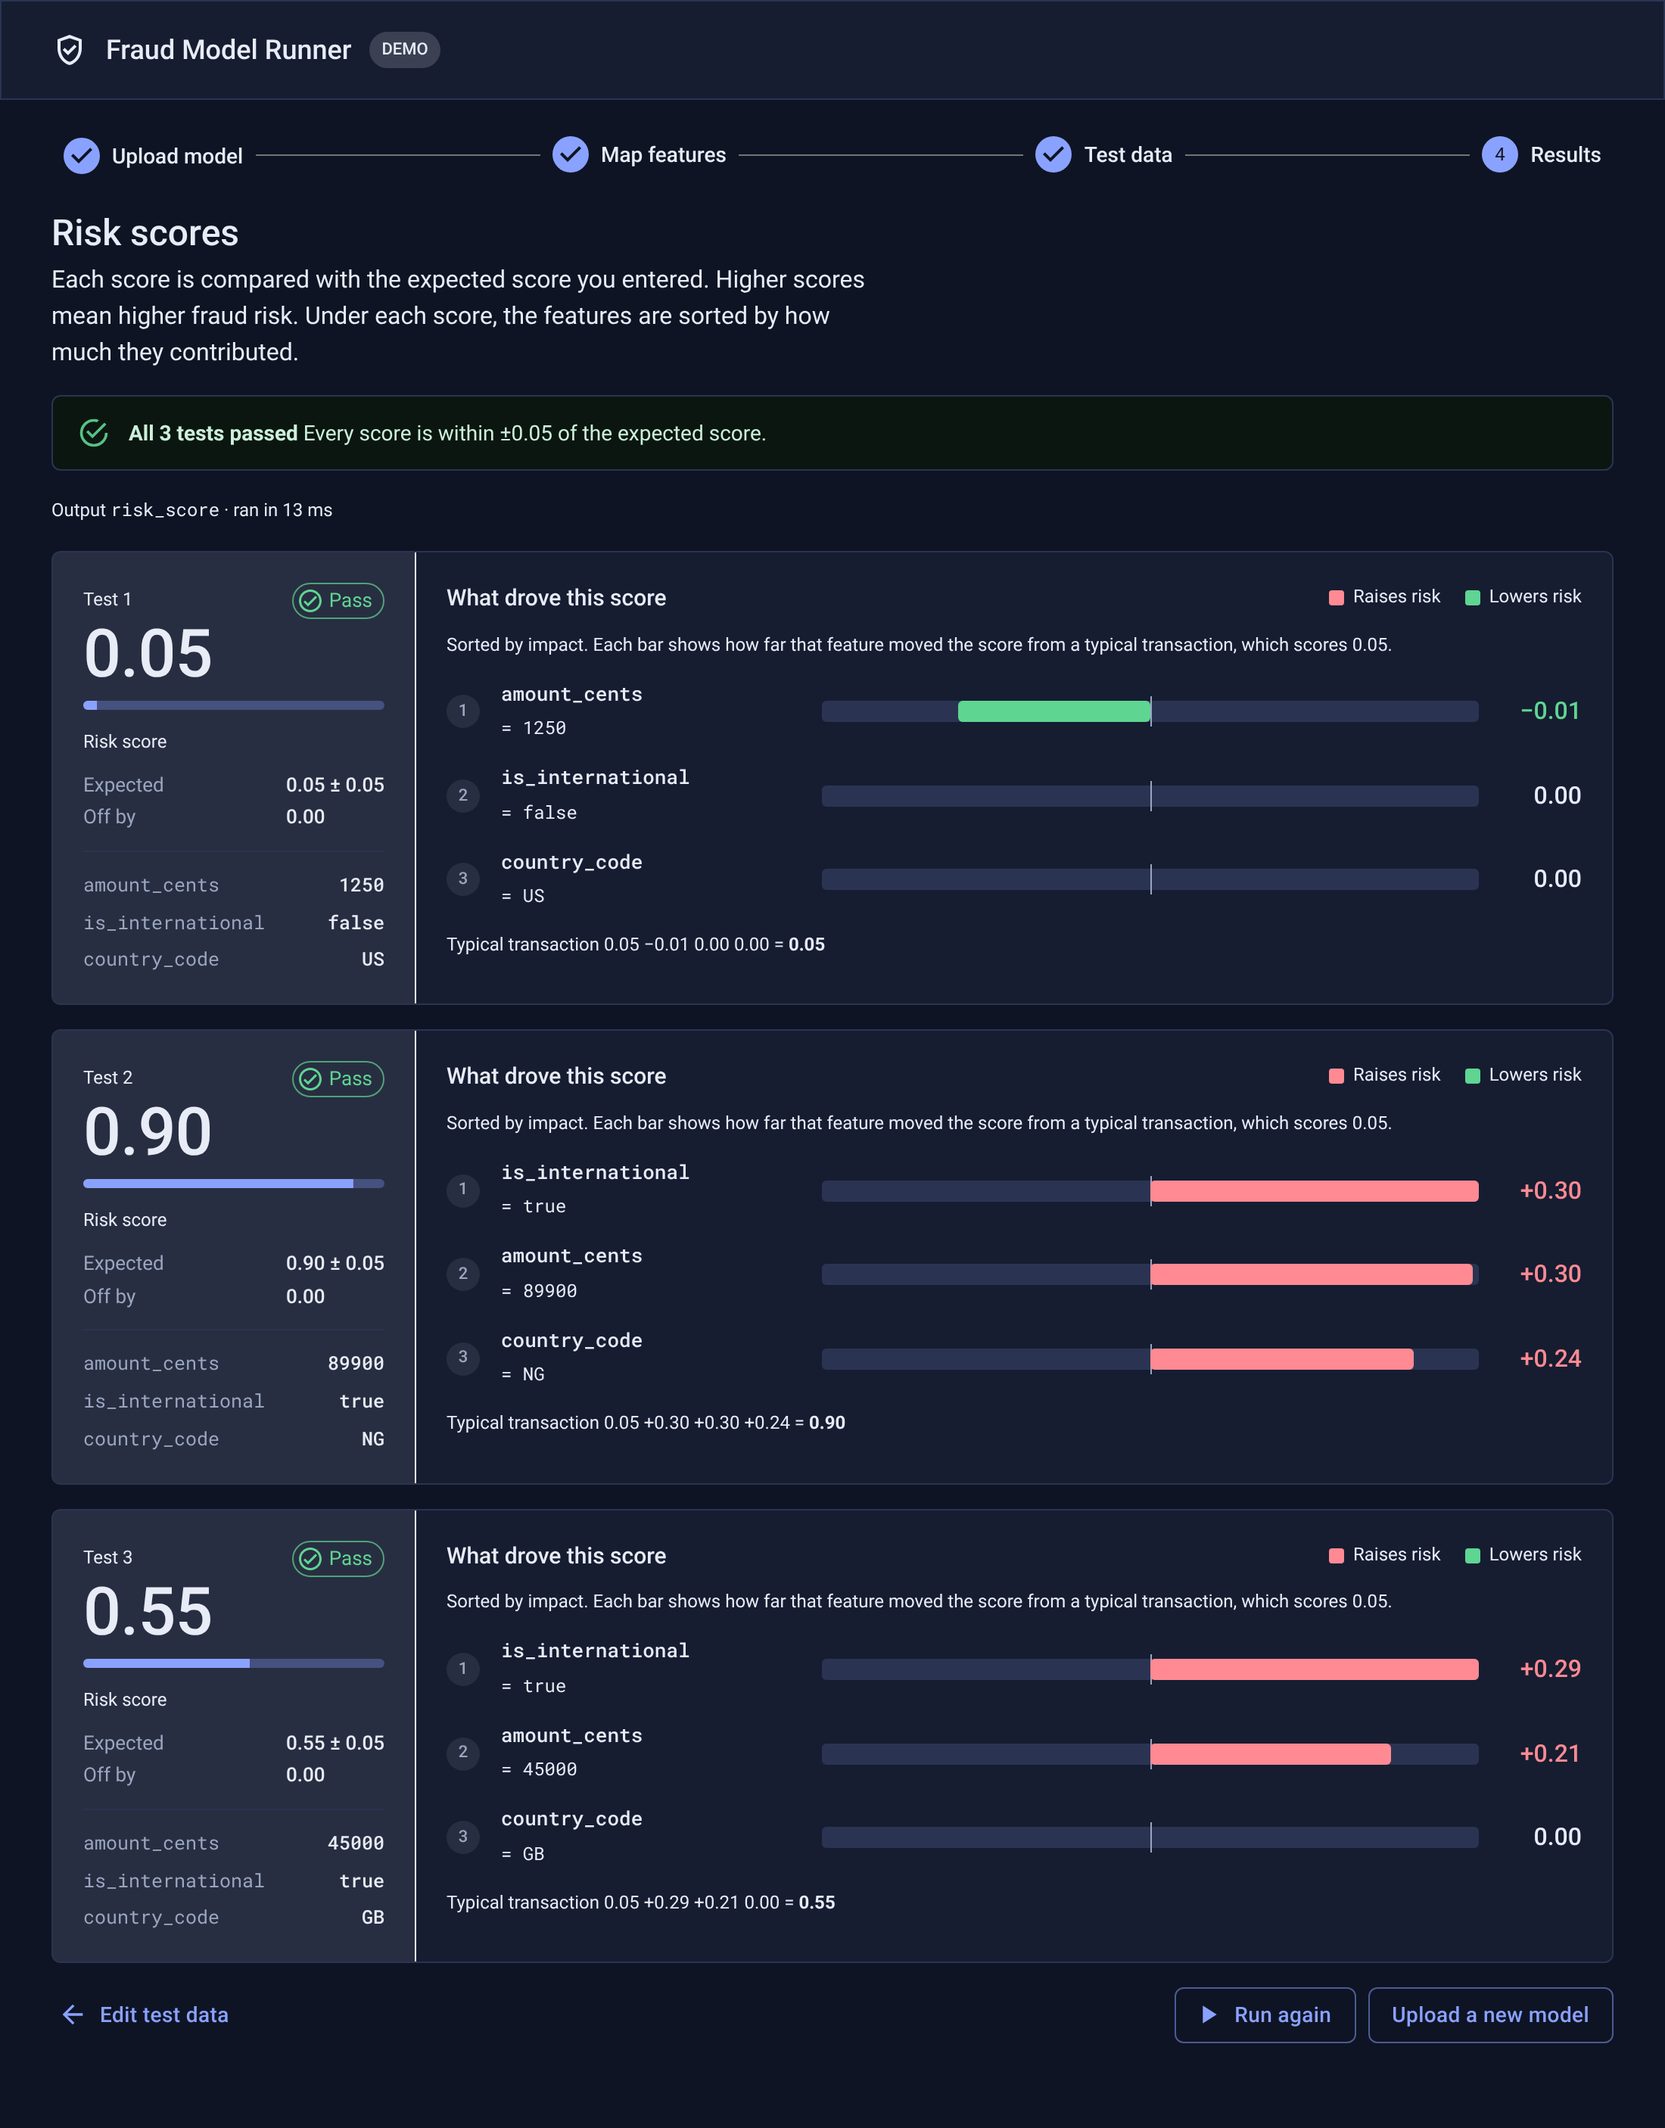
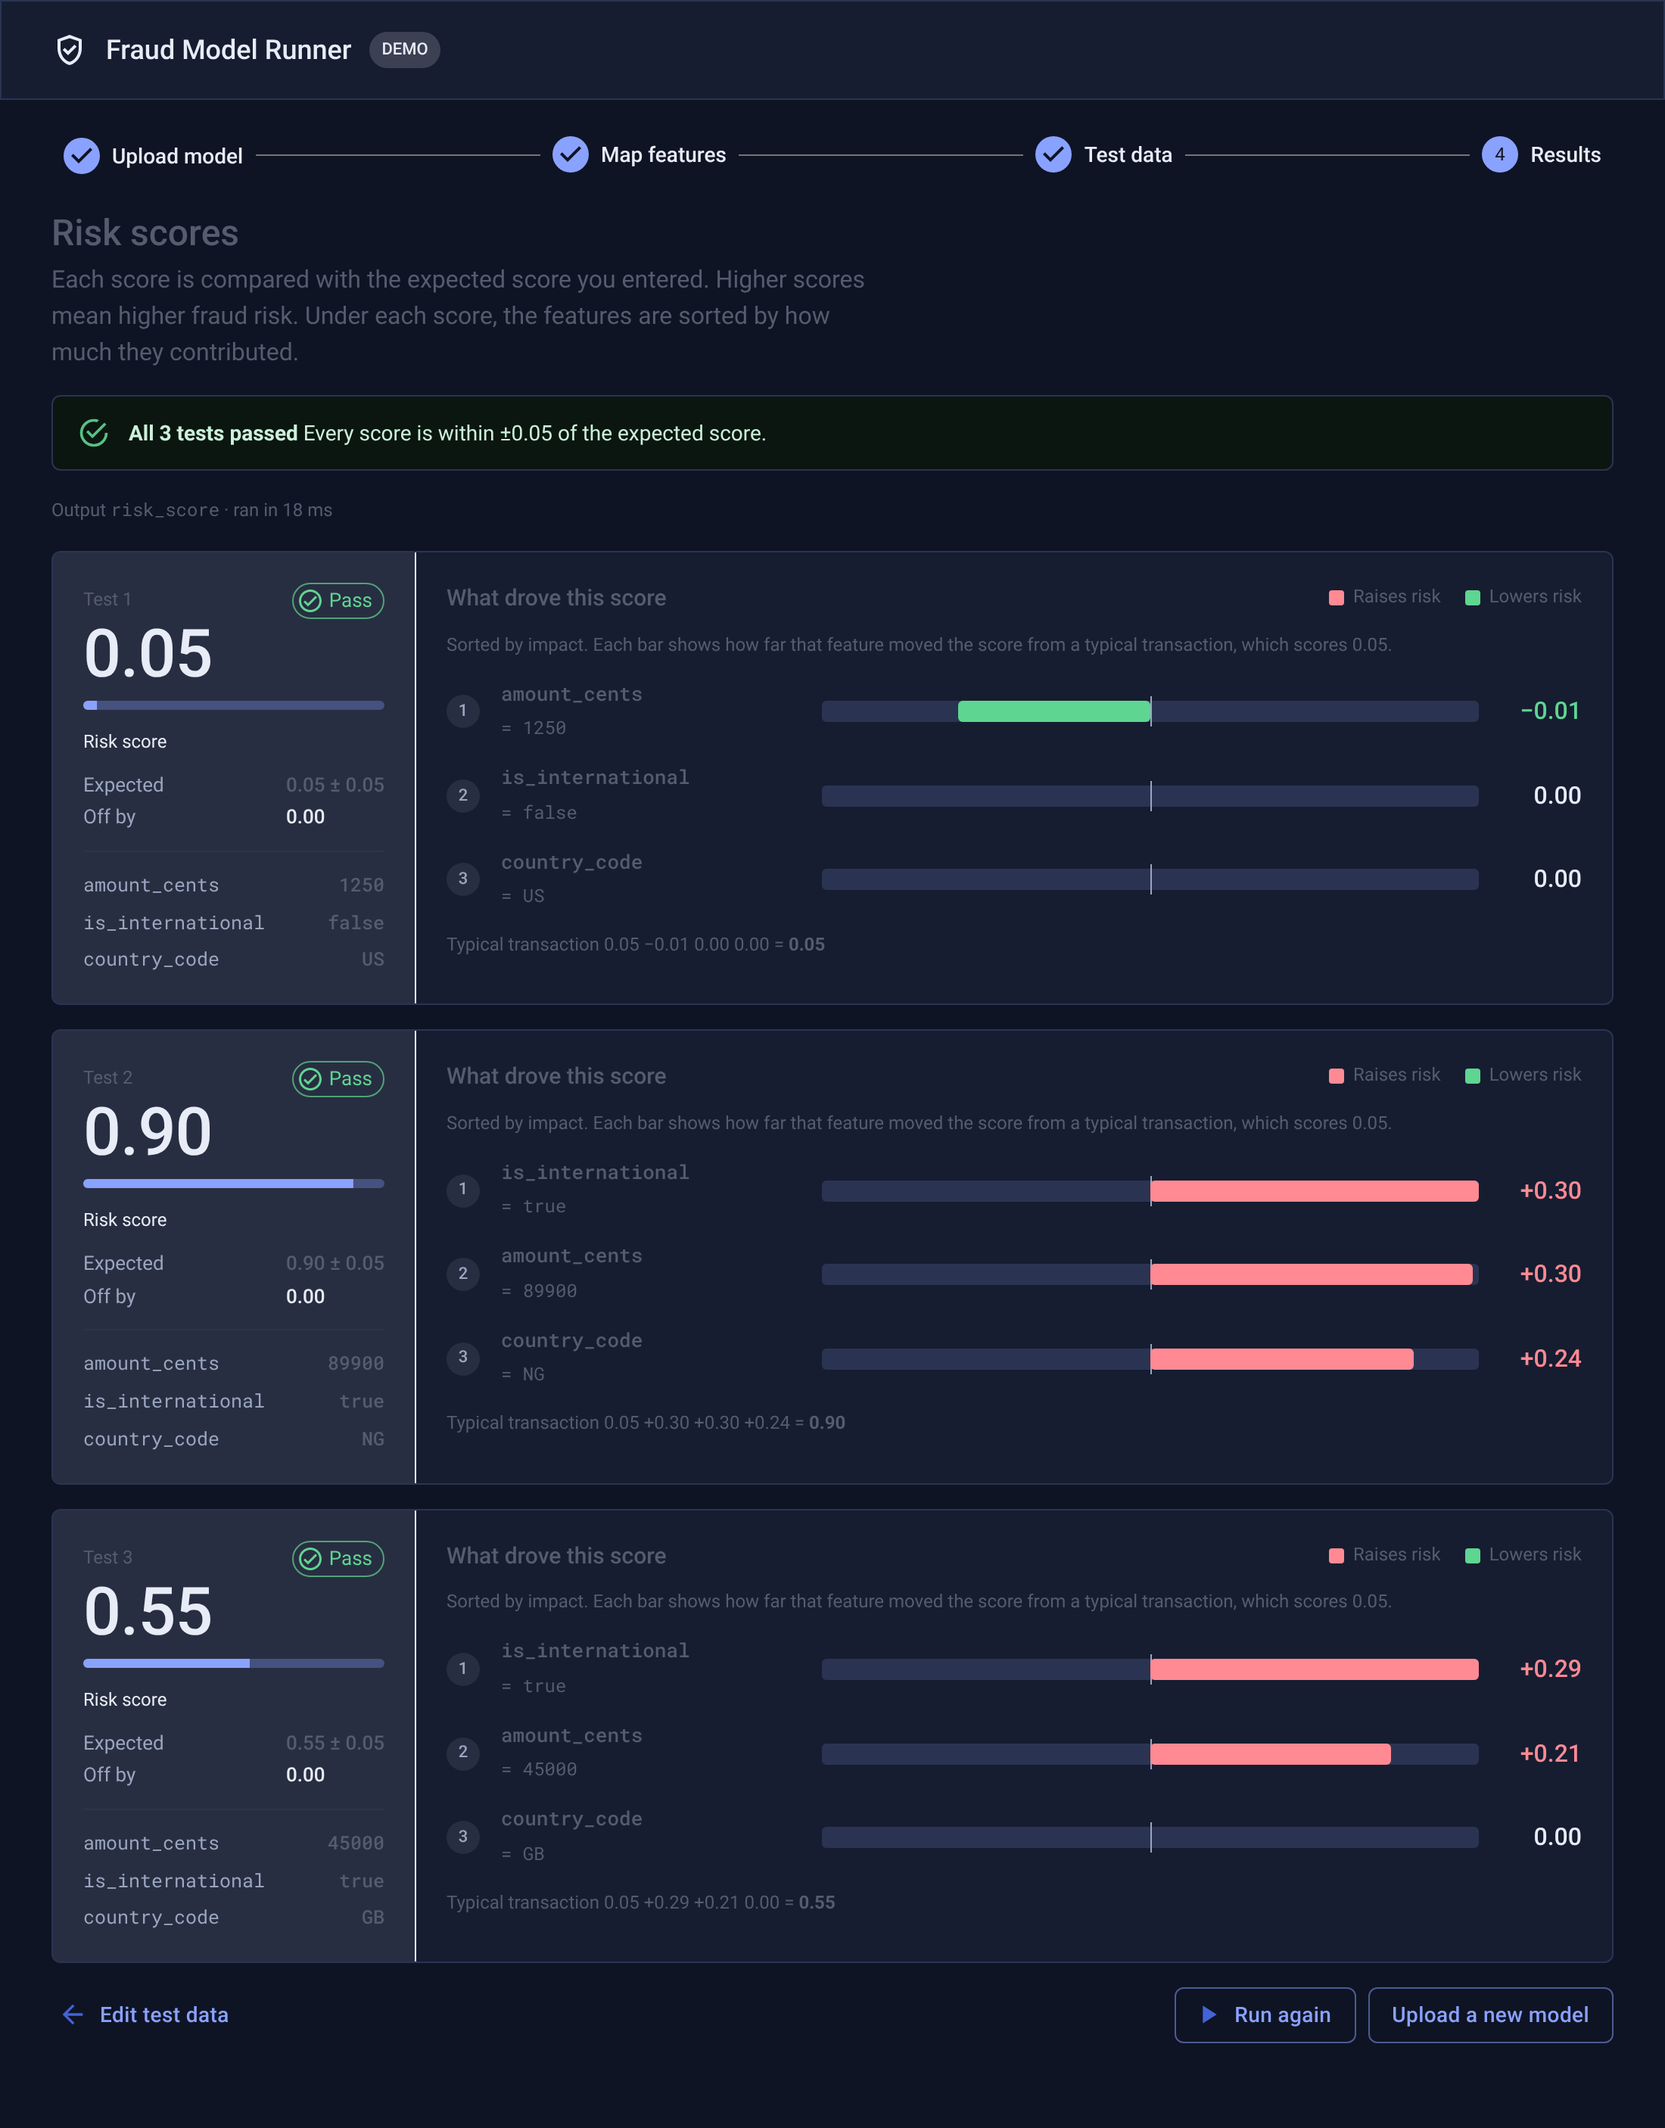
Add a Load demo CSV button under the test data description
- one click loads the repository's sample test cases (with expected scores) into the grid
- the button reads samples/test-data.csv through a Vite alias, so there is a single copy of the demo data
- loading goes through the same parser as Load CSV, so a model that does not match the demo data gets the same
  "Missing column" explanation
- tests: demo data is the sample file and parses; button placement, loading, replacing rows and the mismatch case
  in the browser suite (78 tests in both modes); README and screenshot updated

diff --git a/frontend/e2e/test-data.spec.ts b/frontend/e2e/test-data.spec.ts
@@ -60,6 +60,50 @@ test('text cells must not be blank', async ({ page }) => {
   await expect(status(page)).toHaveText('1 cell needs a value');
 });
 
+test.describe('demo CSV button', () => {
+  const demo = (page: Page) => page.getByRole('button', { name: 'Load demo CSV' });
+
+  test('sits directly under the paragraph and above the grid', async ({ page }) => {
+    const paragraph = await page.getByText(/Enter feature values and the risk score you expect/).boundingBox();
+    const button = await demo(page).boundingBox();
+    const toolbar = await page.getByRole('button', { name: 'Add row' }).boundingBox();
+    expect(paragraph && button && toolbar).toBeTruthy();
+    expect(button!.y).toBeGreaterThanOrEqual(paragraph!.y + paragraph!.height);   // below the paragraph
+    expect(button!.y - (paragraph!.y + paragraph!.height)).toBeLessThan(40);      // right under it
+    expect(button!.y + button!.height).toBeLessThanOrEqual(toolbar!.y);           // and above the grid toolbar
+  });
+
+  test('loads the three demo cases with their expected scores, which pass', async ({ page }) => {
+    await demo(page).click();
+    await expect(page.getByText('Loaded 3 test cases from demo-test-data.csv')).toBeVisible();
+    await expect.poll(() => rowCount(page)).toBe(3);
+    await expect(amount(page, 2)).toHaveValue('89900');
+    await expect(international(page, 2)).toBeChecked();
+    await expect(country(page, 2)).toHaveValue('NG');
+    await expect(expected(page, 3)).toHaveValue('0.55');
+    await page.getByRole('button', { name: 'Run tests' }).click();
+    await expect(page.getByText('All 3 tests passed')).toBeVisible();
+  });
+
+  test('replaces what is in the grid and can be used again', async ({ page }) => {
+    await fillRow(page, 1, { amount: 7, country: 'DE', expected: 0.4 });
+    await demo(page).click();
+    await expect.poll(() => rowCount(page)).toBe(3);
+    await expect(amount(page, 1)).toHaveValue('1250');
+    await page.getByRole('button', { name: 'Delete row 1' }).click();
+    await demo(page).click();
+    await expect.poll(() => rowCount(page)).toBe(3);
+  });
+
+  test('says what is missing when the model does not match the demo data', async ({ page }) => {
+    await clearModel();
+    await autoMappedModelReadyForTests(page, fixture('all_features'));
+    await demo(page).click();
+    await expect(page.getByText('Could not load demo-test-data.csv')).toBeVisible();
+    await expect(page.getByText('Missing column “channel”.')).toBeVisible();
+  });
+});
+
 test('the expected score must be a number', async ({ page }) => {
   for (const [value, ok] of [['abc', false], ['1,5', false], ['0x1', false], ['--1', false], ['0.9', true], ['.5', true], ['1', true], ['-0.2', true], ['1e-2', true], ['100', true]] as const) {
     await expected(page, 1).fill(value);

diff --git a/frontend/src/features/tests/TestDataStep.tsx b/frontend/src/features/tests/TestDataStep.tsx
@@ -1,4 +1,5 @@
 import Add from '@mui/icons-material/Add';
+import ScienceOutlined from '@mui/icons-material/ScienceOutlined';
 import ArrowBack from '@mui/icons-material/ArrowBack';
 import DeleteOutlined from '@mui/icons-material/DeleteOutlined';
 import ErrorOutlined from '@mui/icons-material/ErrorOutlined';
@@ -30,6 +31,7 @@ import TypeChip from '../../components/TypeChip';
 import { monoFont } from '../../theme';
 import type { CellValue, FeatureKind, TestRunRequest } from '../../types';
 import { isNumber, isWholeNumber, parseTestCsv } from './csv';
+import { DEMO_CSV, DEMO_CSV_NAME } from './demoData';
 import { DEFAULT_TOLERANCE, addRow, csvFailed, csvLoaded, deleteRow, setCell, setExpected, setTolerance, triedRun, type TestRow } from './testsSlice';
 
 interface Column {
@@ -75,11 +77,12 @@ export default function TestDataStep() {
   );
   const toleranceBad = toleranceInvalid(tolerance);
 
-  const loadCsv = async (file: File) => {
-    const result = parseTestCsv(await file.text(), columns);
-    if (result.errors.length) dispatch(csvFailed({ name: file.name, errors: result.errors }));
-    else dispatch(csvLoaded({ name: file.name, rows: result.rows }));
+  const applyCsv = (text: string, name: string) => {
+    const result = parseTestCsv(text, columns);
+    if (result.errors.length) dispatch(csvFailed({ name, errors: result.errors }));
+    else dispatch(csvLoaded({ name, rows: result.rows }));
   };
+  const loadCsv = async (file: File) => applyCsv(await file.text(), file.name);
 
   const submit = async () => {
     if (rows.length === 0 || invalidCount > 0 || toleranceBad) {
@@ -114,7 +117,14 @@ export default function TestDataStep() {
 
   return (
     <>
-      <StepHeader title="Test data">
+      <StepHeader
+        title="Test data"
+        below={
+          <Button size="small" variant="outlined" startIcon={<ScienceOutlined />} onClick={() => applyCsv(DEMO_CSV, DEMO_CSV_NAME)}>
+            Load demo CSV
+          </Button>
+        }
+      >
         Enter feature values and the risk score you expect for each test case, or load them from a CSV file. A test passes when the model's score is within the tolerance of the expected score. At least one test case is required.
       </StepHeader>
       <Stack spacing={2}>

diff --git a/frontend/src/features/tests/demoData.test.ts b/frontend/src/features/tests/demoData.test.ts
@@ -1,0 +1,25 @@
+import { readFileSync } from 'node:fs';
+import { describe, expect, it } from 'vitest';
+import { parseTestCsv } from './csv';
+import { DEMO_CSV, DEMO_CSV_NAME } from './demoData';
+
+const sampleColumns = [
+  { feature: 'amount_cents', kind: 'INTEGER' as const },
+  { feature: 'is_international', kind: 'BOOLEAN' as const },
+  { feature: 'country_code', kind: 'STRING' as const },
+];
+
+describe('demo CSV', () => {
+  it('is the repository sample file, not a copy', () => {
+    const file = readFileSync(new URL('../../../../samples/test-data.csv', import.meta.url), 'utf8');
+    expect(DEMO_CSV).toBe(file);
+    expect(DEMO_CSV_NAME).toBe('demo-test-data.csv');
+  });
+
+  it('loads as three test cases with expected scores for the sample model', () => {
+    const { rows, errors } = parseTestCsv(DEMO_CSV, sampleColumns);
+    expect(errors).toEqual([]);
+    expect(rows.map((r) => r.expected)).toEqual(['0.05', '0.90', '0.55']);
+    expect(rows[1].values).toEqual({ amount_cents: '89900', is_international: true, country_code: 'NG' });
+  });
+});

diff --git a/frontend/src/components/StepHeader.tsx b/frontend/src/components/StepHeader.tsx
@@ -2,7 +2,18 @@ import Box from '@mui/material/Box';
 import Typography from '@mui/material/Typography';
 import type { ReactNode } from 'react';
 
-export default function StepHeader({ title, children, action }: { title: string; children: ReactNode; action?: ReactNode }) {
+export default function StepHeader({
+  title,
+  children,
+  action,
+  below,
+}: {
+  title: string;
+  children: ReactNode;
+  action?: ReactNode;
+  /** Shown directly under the paragraph. */
+  below?: ReactNode;
+}) {
   return (
     <Box sx={{ display: 'flex', flexWrap: 'wrap', alignItems: 'flex-end', justifyContent: 'space-between', gap: 1.5, mb: 2 }}>
       <Box>
@@ -12,6 +23,7 @@ export default function StepHeader({ title, children, action }: { title: string;
         <Typography color="text.secondary" sx={{ mt: 0.5, maxWidth: '62ch' }}>
           {children}
         </Typography>
+        {below && <Box sx={{ mt: 1.5 }}>{below}</Box>}
       </Box>
       {action}
     </Box>

diff --git a/frontend/e2e/screenshots.spec.ts b/frontend/e2e/screenshots.spec.ts
@@ -1,6 +1,6 @@
 import path from 'node:path';
 import { fileURLToPath } from 'node:url';
-import { clearModel, dragFeature, expect, loadCsv, SAMPLE_CSV, SAMPLE_MODEL, test, uploadModel } from './support';
+import { clearModel, dragFeature, expect, SAMPLE_MODEL, test, uploadModel } from './support';
 
 // Regenerates docs/screenshots from the real app:  E2E_SCREENSHOTS=1 scripts/e2e.sh e2e/screenshots.spec.ts
 test.skip(!process.env.E2E_SCREENSHOTS, 'only runs when E2E_SCREENSHOTS is set');
@@ -21,7 +21,7 @@ test('capture every screen', async ({ page }) => {
   await expect(page.getByText('All inputs mapped')).toBeVisible();
 
   await page.getByRole('button', { name: 'Continue to test data' }).click();
-  await loadCsv(page, SAMPLE_CSV);
+  await page.getByRole('button', { name: 'Load demo CSV' }).click();
   await expect(page.getByText('Loaded 3 test cases')).toBeVisible();
   await page.screenshot({ path: out('3-test-data'), fullPage: true });
 

diff --git a/frontend/vite.config.ts b/frontend/vite.config.ts
@@ -1,9 +1,16 @@
 import react from '@vitejs/plugin-react';
+import path from 'node:path';
+import { fileURLToPath } from 'node:url';
 import { defineConfig } from 'vitest/config';
+
+const samples = path.resolve(path.dirname(fileURLToPath(import.meta.url)), '../samples');
 
 export default defineConfig({
   plugins: [react()],
+  // The demo test data is the repository's own samples/test-data.csv, imported as text (import x from '@samples/test-data.csv?raw').
+  resolve: { alias: { '@samples': samples } },
   server: {
+    fs: { allow: ['.', samples] },
     port: 5173,
     // Local development talks to the Spring Boot service on :8080
     proxy: { '/api': 'http://localhost:8080' },

diff --git a/frontend/src/features/tests/demoData.ts b/frontend/src/features/tests/demoData.ts
@@ -1,0 +1,5 @@
+import demoCsv from '@samples/test-data.csv?raw';
+
+/** The repository's sample test cases for the sample model (samples/test-data.csv). */
+export const DEMO_CSV: string = demoCsv;
+export const DEMO_CSV_NAME = 'demo-test-data.csv';

diff --git a/frontend/src/vite-env.d.ts b/frontend/src/vite-env.d.ts
@@ -1,0 +1,6 @@
+/// <reference types="vite/client" />
+
+declare module '@samples/*?raw' {
+  const content: string;
+  export default content;
+}

diff --git a/README.md b/README.md
@@ -45,8 +45,9 @@ Browser (React, MUI, Redux Toolkit)                       Azure
   `amount_cents` (int64), `is_international` (bool) and `country` (string), returning `risk_score`.
   The input is called `country` on purpose: the other two inputs match automatically and this one shows the manual
   drag and drop to `country_code`.
-- [`samples/test-data.csv`](samples/test-data.csv): three test cases for it, with their expected scores. Use **Load CSV**
-  on the test data screen, or copy the rows into the grid.
+- [`samples/test-data.csv`](samples/test-data.csv): three test cases for it, with their expected scores. Click **Load demo
+  CSV** (right under the description on the test data screen) to load it in one step, or use **Load CSV** to pick the file,
+  or copy the rows into the grid. The button reads this same file, so there is a single copy of the demo data.
 
 ```csv
 amount_cents,is_international,country_code,expected_score
@@ -87,8 +88,8 @@ cd frontend && npm ci && npm run dev
 | Suite | Run it | What it covers |
 |---|---|---|
 | Backend, 67 tests | `cd backend && ./gradlew test` | ONNX header reader, analyzer, inference, exact Shapley values, value validation (int32 range, huge numbers, text length), 10-feature model with 51,200 runs, concurrent runs while the model is replaced, HTTP errors and CORS, SAS link permissions and expiry. Set `AZURITE_CONNECTION_STRING` to also run the real blob tests (upload through the SAS link, overwrite, tampered links). |
-| Frontend unit, 16 tests | `cd frontend && npm test` | CSV parsing and validation, automatic mapping, mapping state. |
-| Browser, 74 tests | `scripts/e2e.sh` | The real UI against the real API and a blob emulator (Azurite): uploads, rejected files, drag and drop and keyboard/tap placement, unsupported models, grid validation, CSV import, scores checked against a reference formula, contributions, failures of the service or of storage, accessibility scan (axe, light and dark theme) and phone layout. |
+| Frontend unit, 18 tests | `cd frontend && npm test` | CSV parsing and validation, automatic mapping, mapping state. |
+| Browser, 78 tests | `scripts/e2e.sh` | The real UI against the real API and a blob emulator (Azurite): uploads, rejected files, drag and drop and keyboard/tap placement, unsupported models, grid validation, CSV import, scores checked against a reference formula, contributions, failures of the service or of storage, accessibility scan (axe, light and dark theme) and phone layout. |
 | Browser, built UI on another origin | `E2E_MODE=prod scripts/e2e.sh` | The same tests against the production build served from a different origin than the API, so CORS for the API and for direct uploads to blob storage is exercised like in Azure. |
 
 `scripts/e2e.sh` starts Azurite, the API and the UI itself (Java 25 and Node 22 needed; set `PW_CHROMIUM_PATH` to use an
